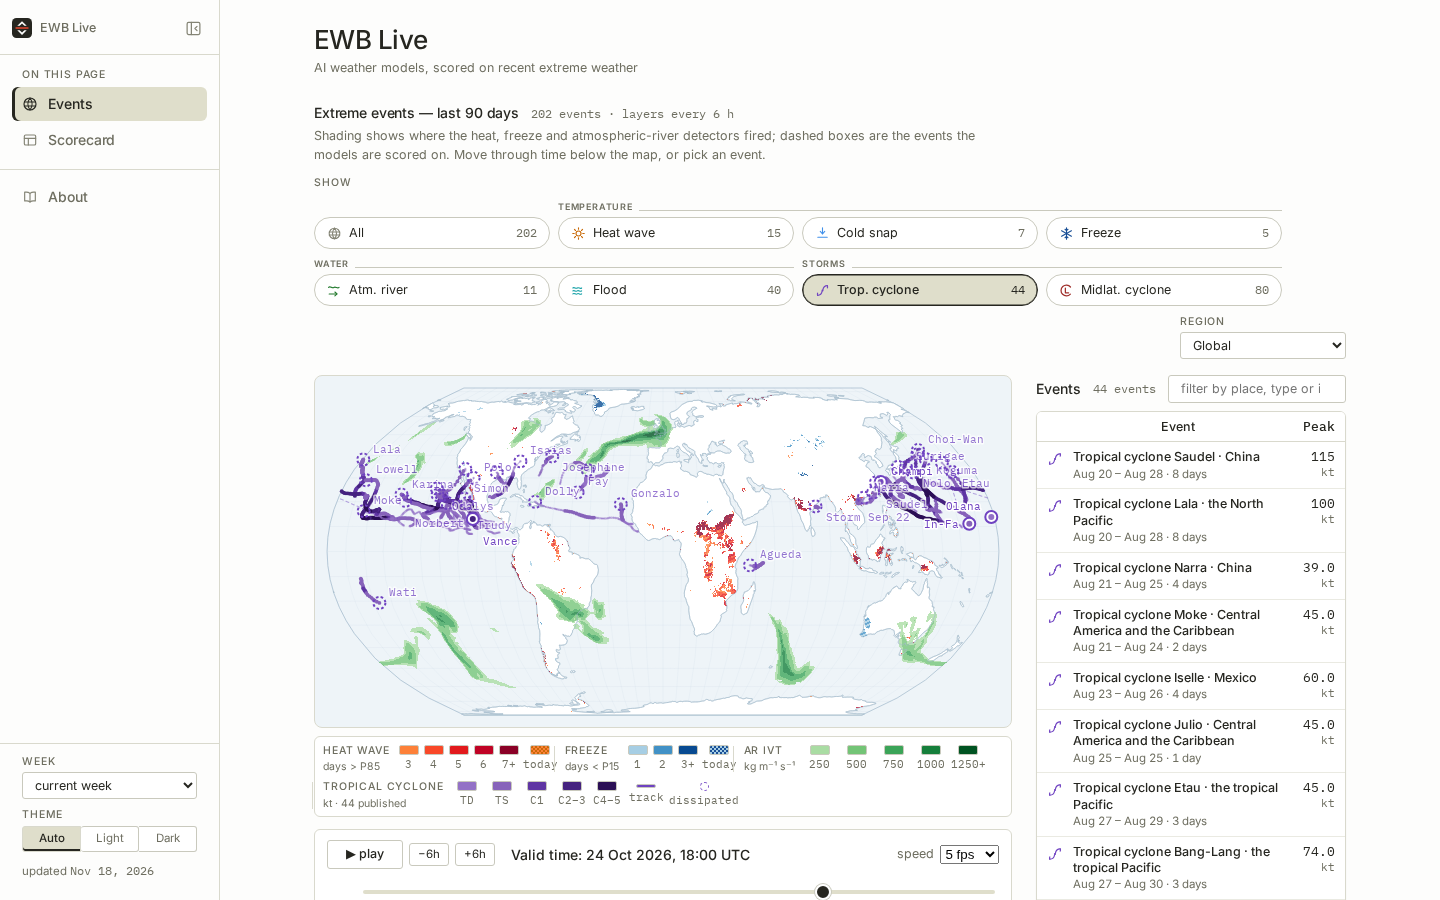
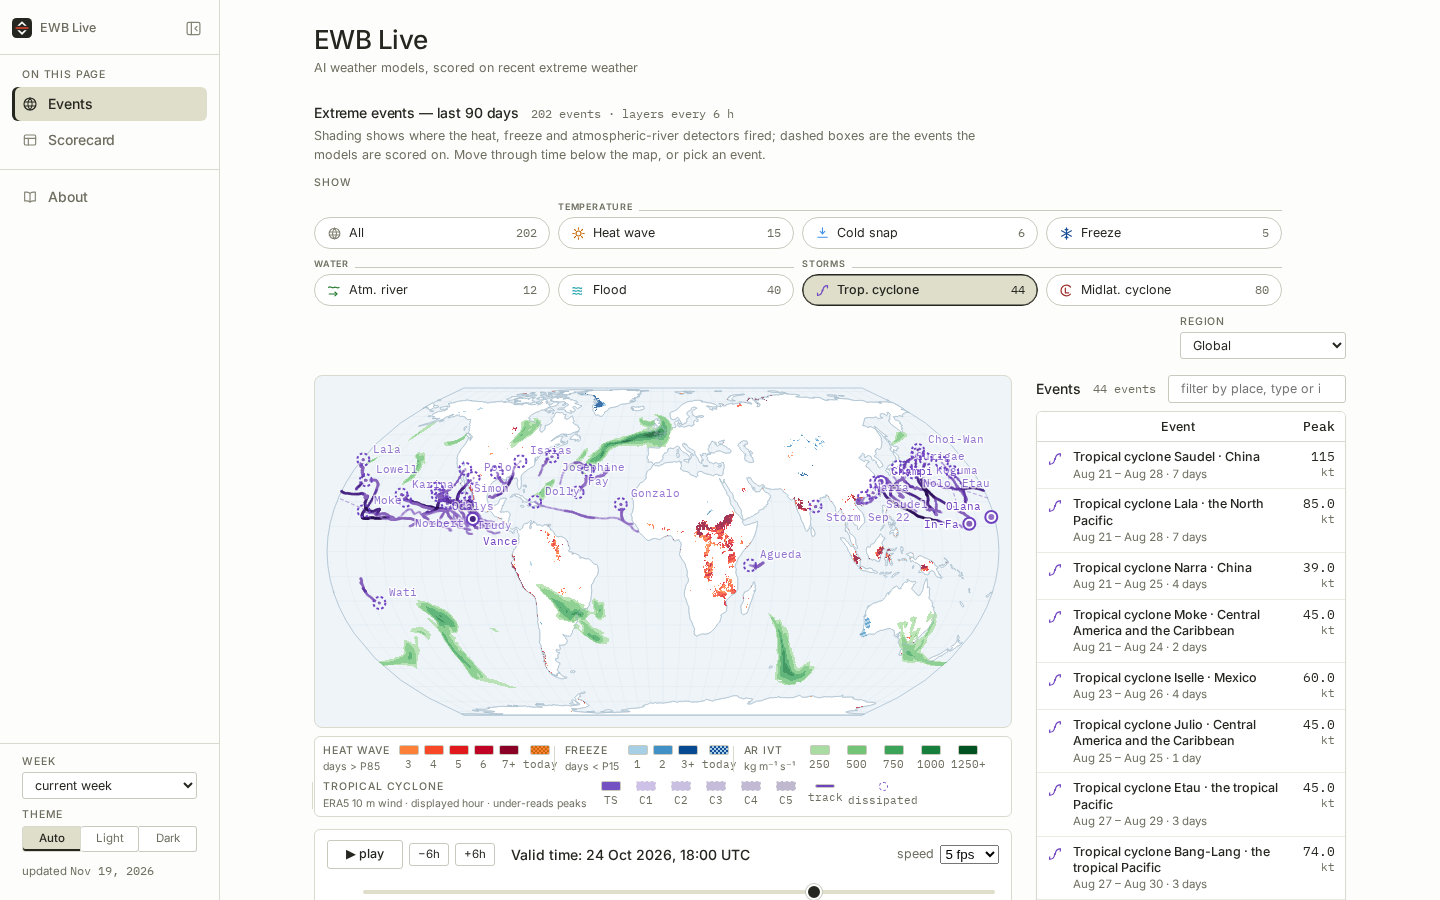
docs: MLC DONE entry + audit F6/F7 (lane-status rule-tag, shared dev-tree sync hazard); verification screenshots (console 0 errors, 80 published, TrackViz, overflow 0)

diff --git a/notes/channel_new_events.md b/notes/channel_new_events.md
@@ -3120,3 +3120,68 @@ dropped); audit corrected in 0000000.
 
 Audit correction committed; screen-6 evidence: dev cache above + 9 unit
 tests in CI-clean local suite (555 passed / 13 skipped, 0 failures).
+
+## [ne-fix-mlc] 2026-11-19 07:30 UTC — DONE: MLC lane fixed (TC double-count + quota ranking), source reach confirmed; verified on :8051 before the shared tree was re-clobbered
+
+**What changed** (branch `fix/mlc`, rebased onto `fix/round2-legend-tc-wind`
+per orchestrator 06:0x — carries 61bbd68 + 518ad32; NO push, NO PR):
+- `22c0aba` + `658ec57` `notes/audit_mlc.md` — the lane audit (F1..F7),
+  independent-reference evidence throughout.
+- `bc58298` `ewb_live/events/mlc.py` (+ `tests/test_mlc_tc_overlap.py`, 9
+  tests): **screen 6** `tc_overlap_checker` — reject an MLC track with >=2
+  fixes within 500 km / +/-12 h of ANY-nature IBTrACS fix (whole track, not
+  genesis; the old genesis screen was structurally blind to post-tropical
+  continuations). `RULE_REV` -> `mlc-v3`. **Quota severity** ->
+  `depth^2 x min(days,7) x bomb`: depth can no longer be outvoted by
+  lifetime. Touches ONLY `ewb_live/events/mlc.py`; dateline / viz / tc_wind /
+  colours untouched (round2 branch owns those and my branch now sits on it).
+
+**Before/after on real 90-day data** (dev box, window 2026-08-21..11-12):
+- raw catalogue **143 -> 142**: `a1872482f814` (2026-10-21..24, 983 hPa,
+  21/28 fixes on Hurricane Josephine's ET/SS IBTrACS track) is now rejected
+  by the detector itself, not just accidentally by the quota. Whole-window
+  sweep: it was the ONLY TC double-count among the 143 (audit F1).
+- published 80 = exactly the new top-80 (verified `set == v3-top80`):
+  shallow/long-lived lows at the old bottom of the list give way to the deep
+  half of the catalogue; e.g. 954.6/60 h, 955.3/60 h, 955.6/54 h and the
+  960.7/48 h bomb — all quota-victims under the old ranking (audit F2, with
+  one correction to my 03:50 entry) — publish now. Deepest published 912.2.
+- data-stop 2026-11-13 **confirmed source reach**: ARCO MSLP last real frame
+  2026-11-12T18Z (all-NaN tail probed frame-by-frame, audit F3). Scoring:
+  honest "Not scored" stays, reasons documented in audit F5 (owner metric
+  definition would be needed to do otherwise).
+- fragmentation 2/143 near-twin pairs: recorded, deliberately not fixed (F4).
+
+**Verification** (my window on :8051, ~05:40-06:30 UTC, tree = rebased
+fix/mlc + data = my v3 build): tab badge Midlat. cyclone **80**, 202 total;
+`meta.lane_status.midlat_cyclone = mlc-v3 / 142 / ok`; MLC event detail
+renders TrackViz; 430 px light+dark horizontal overflow **0** (round2 wrap
+fix intact); `scripts/dev_review_shots.py` full pass — **"no console
+errors"** across all tabs x desktop/phone x light/dark (report committed).
+Units: **560 passed / 13 skipped / 0 failed** locally (546 -> 560 = my 9 new
+tests + round2's 5). E2e full suite vs the 41F/122P dev baseline **by name**:
+**40 failed / 125 passed / 2 skipped**; 38 of the 40 names are baseline
+members; `test_axe_zero_violations` + `test_degenerate_full_band_bbox…` are
+GONE (round2's fixes, now in my tree). The 2 extra names
+(`test_overlay_layers_single_card_and_controls`,
+`test_type_filter_narrows_map_list_and_scorecard_together`) are NOT mine:
+the flood-map agent's 4th raw layer (`9c0c266`, LAYERS key `l`) arrived on
+the shared site mid-window and those two dashboard tests still hard-code the
+3-layer state (`{'h','f','a'}` exact-match) — I measured the 4-key `on` map
+from `MergedMap._dbg()` directly. They need the flood-map agent's test sync
+(their commit does not touch `tests/e2e`).
+
+**The shared dev tree is now on the OTHER builder's code again** (06:31 sync
++ 07:11 rebuild, from a tree forked before `fix/mlc`: raw back to 143,
+ranking back to v2-top80 — measured). This is the third time today; audit
+F6/F7 spell out the two gaps (lane-status not rule-tagged;
+last-writer-wins shared tree). My scan cache `midlat_cyclone_mlc-v3_…json`
+(142, no double-count) survives on the box and re-publishes automatically
+for any tree that carries `RULE_REV = mlc-v3`. **Every dev-site builder:
+rebase your branch onto `fix/mlc` (or wait for the integrator merge), and
+please don't run `--events-only` on a pre-v3 `mlc.py` against the shared
+tree — it republishes the Josephine double-count.**
+
+Needs owner/integrator: merge `fix/mlc` into the integration line; F6
+one-line status-tag fix; the two stale dashboard e2e tests (flood-map
+layer); the two owner decisions in audit F5 (MLC scoring) if they want it.

diff --git a/notes/audit_mlc.md b/notes/audit_mlc.md
@@ -117,3 +117,22 @@ Revisit only if the owner asks for a specific metric definition.
 1. F1 screen (code + unit test + rebuild) — correctness of the published set.
 2. F2 severity (code + unit test) — correctness of *which* 80.
 3. F3/F4/F5: documentation as above; no code.
+
+## Addendum (2026-11-19 07:2x) — two operational gaps found during the fix, neither a lane defect
+
+* **F6, lane-status file is not rule-tagged.** `detect_events` persists one
+  `lane_status_midlat_cyclone.json` per lane (no `RULE_REV` tag, unlike the
+  scan cache), so a concurrent old-code build's status overwrote mine and the
+  published `meta.lane_status` said `mlc-v2 / 143 events` under a v3 product.
+  Diagnostic-only; fixed in my window by deleting the file and re-scanning.
+  Follow-up for the integrator: tag the status file with the lane's rule rev
+  (one-line change in `events/__init__.py::_status_path`).
+* **F7, shared `/opt/ewb-live-dev` is last-writer-wins on BOTH code and
+  data.** Three agents synced/built during this work; the final 07:11 rebuild
+  (flood-map tree, which forked before `fix/mlc`) cache-hit `mlc-v2` and
+  republished the Josephine double-count + v2 quota ranking. Nothing here is
+  lost — `midlat_cyclone_mlc-v3_2026-08-21_2026-11-12.json` (142 events, no
+  double-count) is the scan of the fixed detector — but the shared site keeps
+  the fixed product only once `fix/mlc` is merged into whatever tree the
+  builders rebase on. Owners of other dev-site branches: rebase on
+  `fix/mlc` (or `aaTman/ne-integration` once it carries these two commits).
